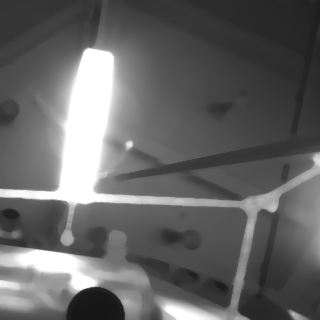
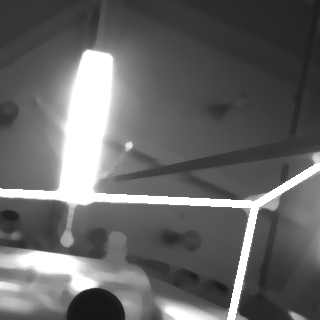
微分値の最小化

diff --git a/SSR-AutonomousDriveingControl/SSC-ImageRecognition/SSC_ImageRecognition9.py b/SSR-AutonomousDriveingControl/SSC-ImageRecognition/SSC_ImageRecognition9.py
@@ -37,6 +37,7 @@ def IR(color_image,depth_image,ir_image,robot_rotation):
     depth_image = cv2.medianBlur(depth_image,9)
     ir_image = cv2.medianBlur(ir_image,9)
     
+
     #画像処理
     result = ImageReconition(depth_image,ir_image,robot_rotation)
     double_image = np.hstack((result[0],ir_image))
@@ -50,15 +51,43 @@ def IR(color_image,depth_image,ir_image,robot_rotation):
 
     return [double_image,x,y,fortunity,GammalAngle,TurnAngle,Rangle,Langle,XLog]
 
+def cv2pil(image):
+    ''' OpenCV型 -> PIL型 '''
+    new_image = image.copy()
+    if new_image.ndim == 2:  # モノクロ
+        pass
+    elif new_image.shape[2] == 3:  # カラー
+        new_image = cv2.cvtColor(new_image, cv2.COLOR_BGR2RGB)
+    elif new_image.shape[2] == 4:  # 透過
+        new_image = cv2.cvtColor(new_image, cv2.COLOR_BGRA2RGBA)
+    new_image = Image.fromarray(new_image)
+    return new_image
 
+def IRRecognition(ir_image):
+    ir_image = cv2.medianBlur(ir_image,9)
+    #画像処理
+
+
+    result = ImageReconition(ir_image,ir_image,0)
+    double_image = np.hstack((result[0],ir_image))
+    x = result[1]
+    y = result[2]
+    fortunity = result[3]
+    GammalAngle = result[4]
+    TurnAngle = result[5]
+    Rangle = result[6]
+    Langle = result[7]
+    cv2.imshow("title",double_image)
+    cv2.waitKey(0)
+    cv2.destroyAllWindows()
 
 def ImageReconition(depth_img,ir_img,rotation):
-    img = depth_img
+    img = ir_img
 
     #水平方向角度の取得
     (value,angle1,angle2,angle3,value1,value2,value3,y,x,doubel_max) = getTurnAngle(img)
 
-
+    print(angle1,angle2,angle3,value)
 
     #仰角の取得
     (topAngle1,topAngle2,topAngle3) = getTopAngle(img,y,x,angle1,angle2,angle3)
@@ -106,6 +135,7 @@ def ImageReconition(depth_img,ir_img,rotation):
             theta = angle3
             img = cv2.line(img,(x,y),(x + int(360 * math.sin(math.radians(theta))),y + int(360 * math.cos(math.radians(theta)))),color=(100,100,255,50),thickness=thickness)
             img = cv2.putText(img,str(int(topAngle3)),(x + int(100 * math.sin(math.radians(theta))),y + int(100 * math.cos(math.radians(theta)))),cv2.FONT_HERSHEY_PLAIN,1,(100,100,255))
+            
             img = cv2.putText(img,str(int(topAngle1)) + "/" + str(int(topAngle2)) + "/" + str(int(topAngle3)),(0,100),cv2.FONT_HERSHEY_PLAIN,3,(255,255,255))
         else:
             for theta in [angle1]:
@@ -121,8 +151,8 @@ def ImageReconition(depth_img,ir_img,rotation):
 @jit(nopython=False)
 def getTurnAngle(img):
     height, width, channels = img.shape[:3]
-    #field=img
-    field = np.where(np.any(img > 0,2) == 0,0,1)
+    field = img[:,:,0]
+    #field = np.where(np.any(img > 0,2) == 0,0,1)
 
     value=-10000
     angle1=-1
@@ -138,6 +168,7 @@ def getTurnAngle(img):
 
     #解を調べる
     (value,angle1,angle2,angle3,value1,value2,value3,x,y,doubel) = solveOptimizedScore(field,0,width,0,height,24,10)
+    print("aaaa",x,y,width,height)
     (value,angle1,angle2,angle3,value1,value2,value3,x,y,doubel) = solveOptimizedScore(field,x-24,x+24,y-24,y+24,5,5)
 
     return (value,angle1,angle2,angle3,value1,value2,value3,int(x),int(y),doubel) 
@@ -158,6 +189,7 @@ def solveOptimizedScore(field,minX,maxX,minY,maxY,gridStep,angleStep):
     for x in range(int(minX),int(maxX),gridStep):
         for y in range(int(minY),int(maxY),gridStep):
             (value,angle1,angle2,angle3,value1,value2,value3,x,y,doubel)=CalcScore(field,x,y,angleStep)
+            #print(x,y,value,bestValue)
             if(bestValue<value):
                 bestValue=value
                 bestAngle1=angle1
@@ -221,6 +253,7 @@ def CalcScore(field,x,y,angleStep):
                 bestY=y
                 bestDoubel=doubel_max
                 break
+    print("■",bestValue,bestX,bestY,bestAngle1,bestAngle2,bestAngle3,bestValue1,bestValue2,bestValue3)
     return [bestValue,bestAngle1,bestAngle2,bestAngle3,bestValue1,bestValue2,bestValue3,bestX,bestY,bestDoubel]
 
 #ある(x,y)に対してすべての角度に対する評価値のlistを返す
@@ -241,6 +274,7 @@ def getAngleData(field,x,y,angleStep):
         sin = math.sin(math.radians(angleStep * i))
 
         r = 0
+        counter=0
         while True:
             r+=1
             originalX = x + r * cos
@@ -250,13 +284,42 @@ def getAngleData(field,x,y,angleStep):
 
             for direction in [-1,1]:
                 for thick in range(0,direction*cable_size,direction):
-                    X = int(originalX - thick * sin)#cos(theta+90)
-                    if(X >= width or X < 0):break
-                    Y = int(originalY + thick * cos)#sin(theta+90)
-                    if(Y >= height or Y < 0):break
-                    if(field[X,Y] == 0):continue
-                    angleData[i,1]+=1 - abs(float(thick) / cable_size) ** 2
+                    X1 = int(x + r * cos - thick * sin)#cos(theta+90)
+                    Y1 = int(y + r * sin + thick * cos)#sin(theta+90)
+                    if(X1 >= width or X1 < 0):break
+                    if(Y1 >= height or Y1 < 0):break
+                    if(field[X1,Y1] == 0):continue
 
+                    X2 = int(x + (r-1) * cos - thick * sin)#cos(theta+90)
+                    Y2 = int(y + (r-1) * sin + thick * cos)#sin(theta+90)
+                    if(X2 >= width or X2 < 0):break
+                    if(Y2 >= height or Y2 < 0):break
+
+                    a=field[X1,Y1]
+                    b=field[X2,Y2]
+                        
+                    if(a>b):
+                        c=a-b
+                    else:
+                        c=b-a
+                    
+                    counter+=(1 - abs(float(thick) / cable_size) ** 2)
+                    #c=255-a
+                    #print(x,y,X1,Y1,c)
+                    #angleData[i,1]+=(1 - abs(float(thick) / cable_size) ** 2)
+                    angleData[i,1]+=(1 - abs(float(thick) / cable_size) ** 2)*(255-c)
+                    #if(x==24 and y==168 and (angleStep*i==30 or angleStep*i==330)):
+                        #print("AAAAAAA:",(1 - abs(float(thick) / cable_size) ** 2)*(255-c))
+                        #print("NOW!",angleStep,int(field[X1,Y1]),int(field[X2,Y2]),int(field[X1,Y1])-int(field[X2,Y2]),X1,Y1)
+
+                    #print(angleData[i,0],(1 - abs(float(thick) / cable_size) ** 2)*(255-abs(field[X1,Y1]-field[X2,Y2])))
+                    #print((1 - abs(float(thick) / cable_size) ** 2)*(255-abs(field[X1,Y1]-field[X2,Y2])))
+        
+        if(counter!=0):
+            angleData[i,1]/=counter
+
+        print(x,y,angleStep * i,i,angleData[i,1])
+        
     return angleData
 
 
@@ -321,12 +384,12 @@ def getTopAngle(img,x,y,angle1,angle2,angle3):
     topAngle3 = 0
     
     
-    angle1x = np.zeros(1)
-    angle1y = np.zeros(1)
-    angle2x = np.zeros(1)
-    angle2y = np.zeros(1)
-    angle3x = np.zeros(1)
-    angle3y = np.zeros(1)
+    angle1x = np.empty(1)
+    angle1y = np.empty(1)
+    angle2x = np.empty(1)
+    angle2y = np.empty(1)
+    angle3x = np.empty(1)
+    angle3y = np.empty(1)
 
     
     for i in range(3):
@@ -426,7 +489,8 @@ def getRobotAngle(img,x,y,angle1,angle2,angle3,rotation):
     a2,b2 = reg1dim(Data2x,Data2y)
 
     g = 9.8
-    div = min(g,rotation.z) / g
+    #div = min(g,rotation.z) / g
+    div = min(g,0) / g
     tieAngle = math.degrees(math.acos(div))
     #print("仰角:",math.degrees(math.atan(a1)) ,
     #tieAngle,"/旋回角:",-math.degrees(math.atan(a2)),"/R角:",newAngles[1] - 90 -

diff --git a/SSR-AutonomousDriveingControl/SSC-ImageRecognition/Test.py b/SSR-AutonomousDriveingControl/SSC-ImageRecognition/Test.py
@@ -1,13 +1,4 @@
-import cv2
-import numpy as np
-from matplotlib import pyplot as plt
-
-img = cv2.imread('ir.png',0)
-edges = cv2.Canny(img,100,200)
-
-plt.subplot(121),plt.imshow(img,cmap = 'gray')
-plt.title('Original Image'), plt.xticks([]), plt.yticks([])
-plt.subplot(122),plt.imshow(edges,cmap = 'gray')
-plt.title('Edge Image'), plt.xticks([]), plt.yticks([])
-
-plt.show()
+import cv2 #pip install opencv-python
+from SSC_ImageRecognition9 import IRRecognition
+ir_image=cv2.imread('ir.png')
+IRRecognition(ir_image)
